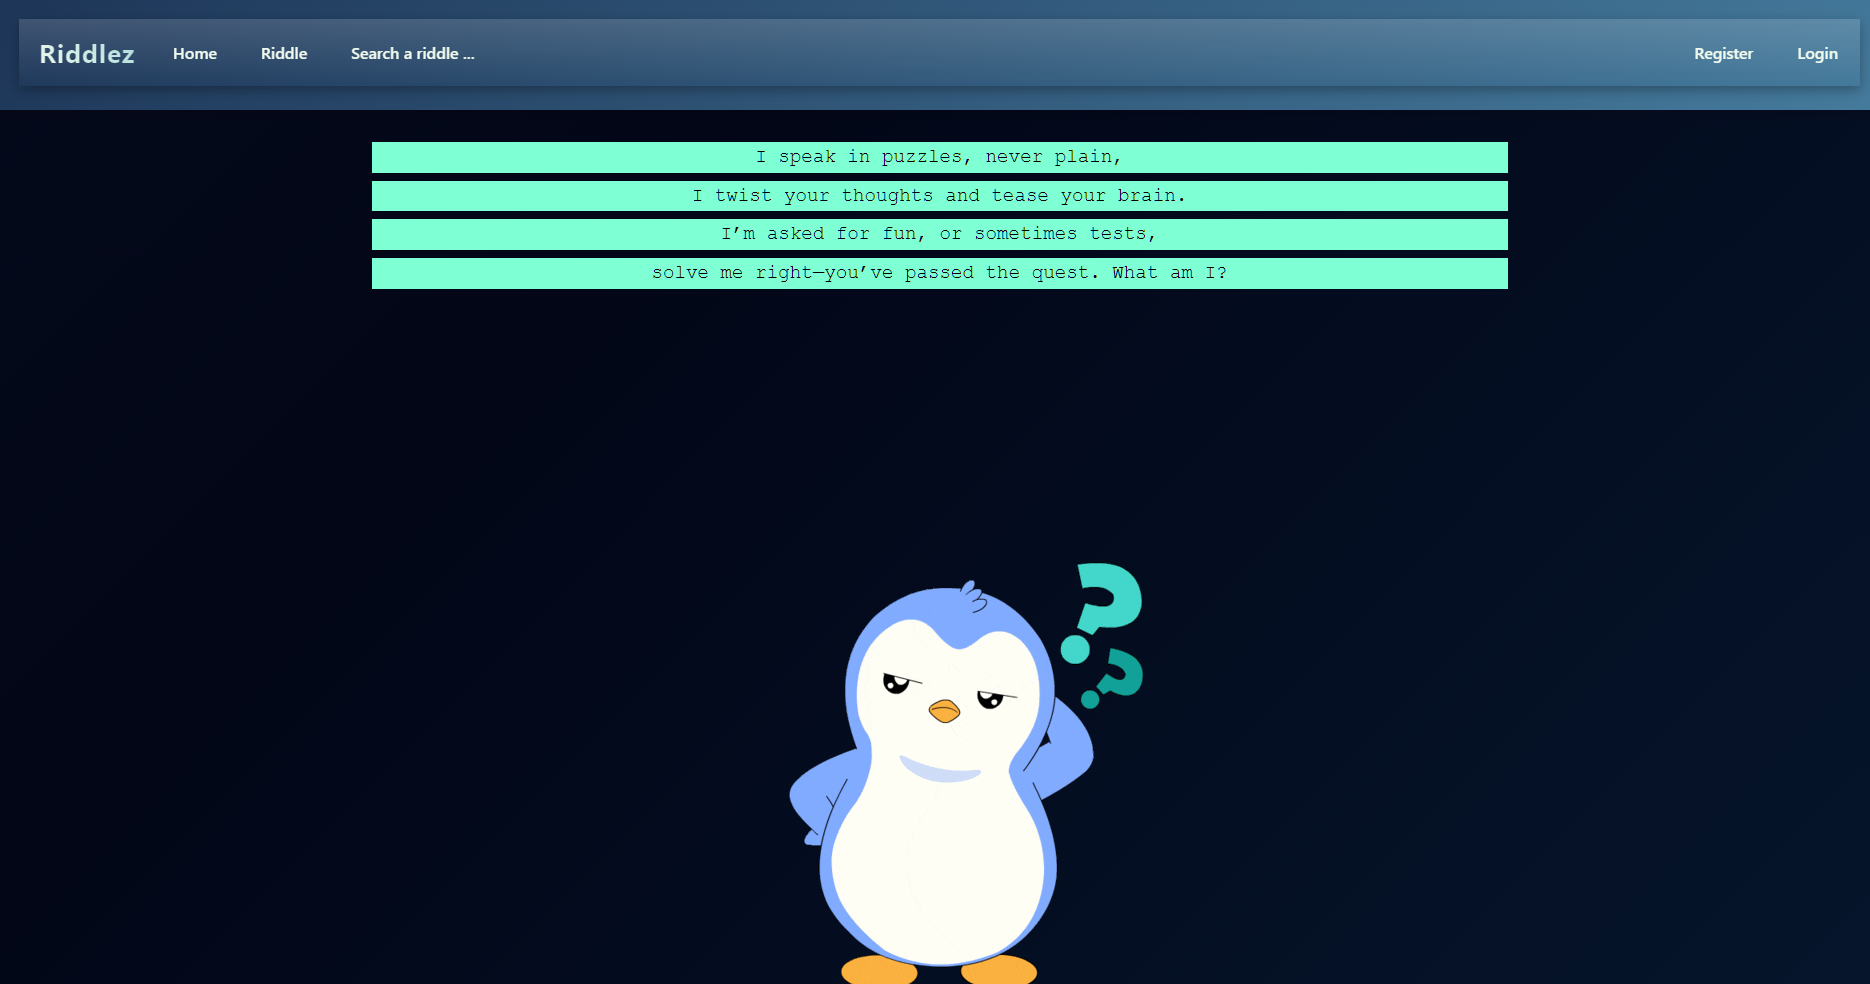
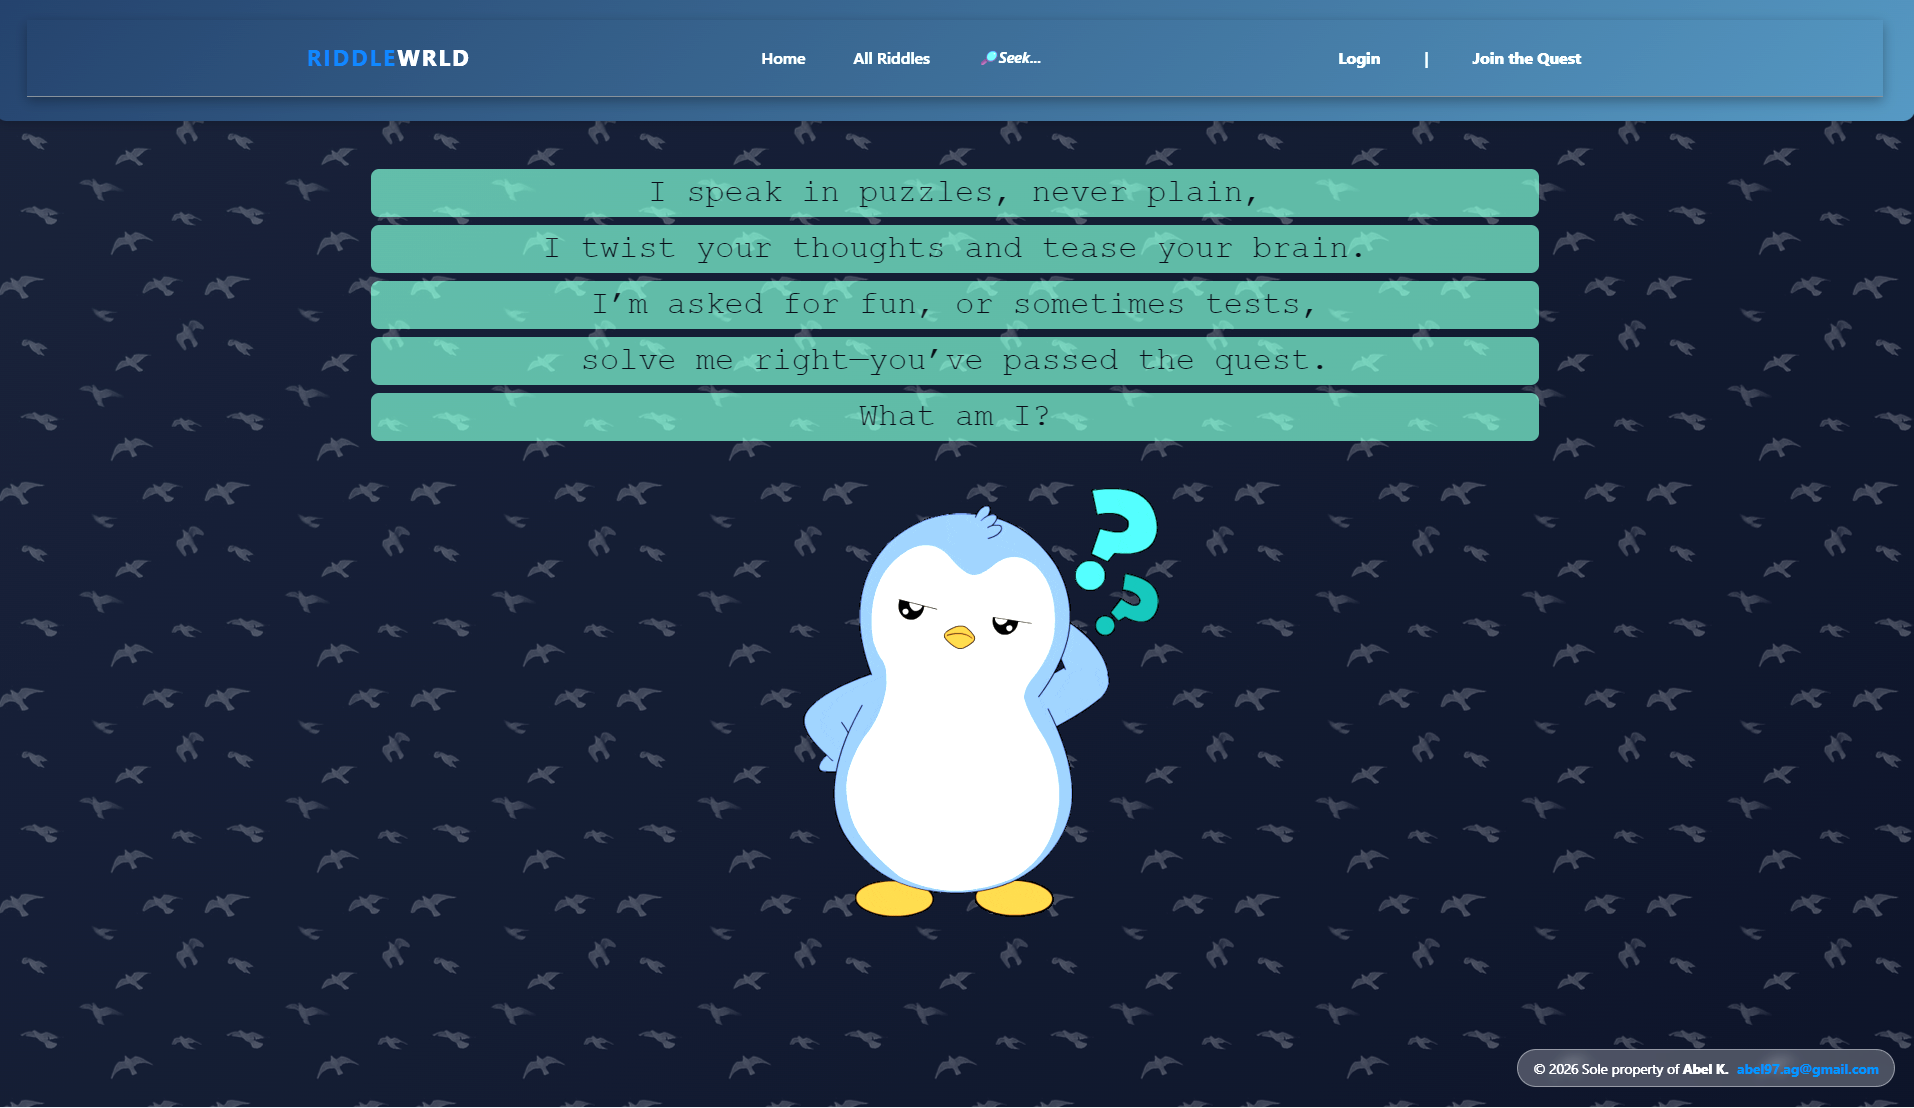
Minor update
Fixed some UI
Added new images for the ReadME file

diff --git a/DadJokes/wwwroot/css/site.css b/DadJokes/wwwroot/css/site.css
@@ -219,7 +219,68 @@ footer {
     border-top-left-radius: 12px;
     border-top-right-radius: 12px;
 }
+.footer-tag {
+    position: fixed;
+    bottom: 20px;
+    right: 20px;
+    background: rgba(255, 255, 255, 0.2); /* Glass effect */
+    backdrop-filter: blur(5px);
+    padding: 8px 15px;
+    border-radius: 50px; /* Pill shape */
+    border: 1px solid rgba(255, 255, 255, 0.3);
+    font-size: 0.85rem;
+    color: #f1f1f1;
+    transition: all 0.3s ease;
+    z-index: 1000;
+}
 
+    .footer-tag:hover {
+        background: rgba(255, 255, 255, 0.5);
+        transform: translateY(-3px);
+        box-shadow: 0 4px 15px rgba(0,0,0,0.1);
+    }
+
+    .footer-tag a {
+        color: #007bff;
+        text-decoration: none;
+        font-weight: bold;
+        margin-left: 5px;
+    }
+
+/*Riddle search view*/
+.custom-search .form-control:focus {
+    box-shadow: 0 0 10px rgba(13, 110, 253, 0.25);
+    border-color: #0d6efd;
+}
+
+.custom-search .btn-primary {
+    transition: all 0.2s ease-in-out;
+}
+
+    .custom-search .btn-primary:hover {
+        transform: scale(1.02);
+        filter: brightness(1.1);
+    }
+
+/* Optional: Make the "Search" title pop */
+h2.display-6 {
+    font-weight: 300;
+    color: #60a5fa;
+}
+
+/*Create new riddle*/
+/* Make the input boxes feel softer */
+.form-floating > .form-control:focus {
+    border-color: #0d6efd;
+    box-shadow: 0 0 8px rgba(13, 110, 253, 0.2);
+}
+.form-floating > label {
+    color: #495057 !important; /* Darker gray for the label */
+}
+.card {
+    background: rgba(255, 255, 255, 0.9) !important;
+    backdrop-filter: blur(10px);
+}
 /* Table Styling */
 .custom-table {
     background: rgba(29, 53, 87, 0.85);
@@ -394,6 +455,8 @@ footer {
     font-family: 'Courier New', monospace;
     font-size: 1.2rem;
     visibility: hidden; /* start invisible */
+    animation: typing 1s steps(40, end);
+    opacity: 55%;
 }
 
 .homepage-intro p {
